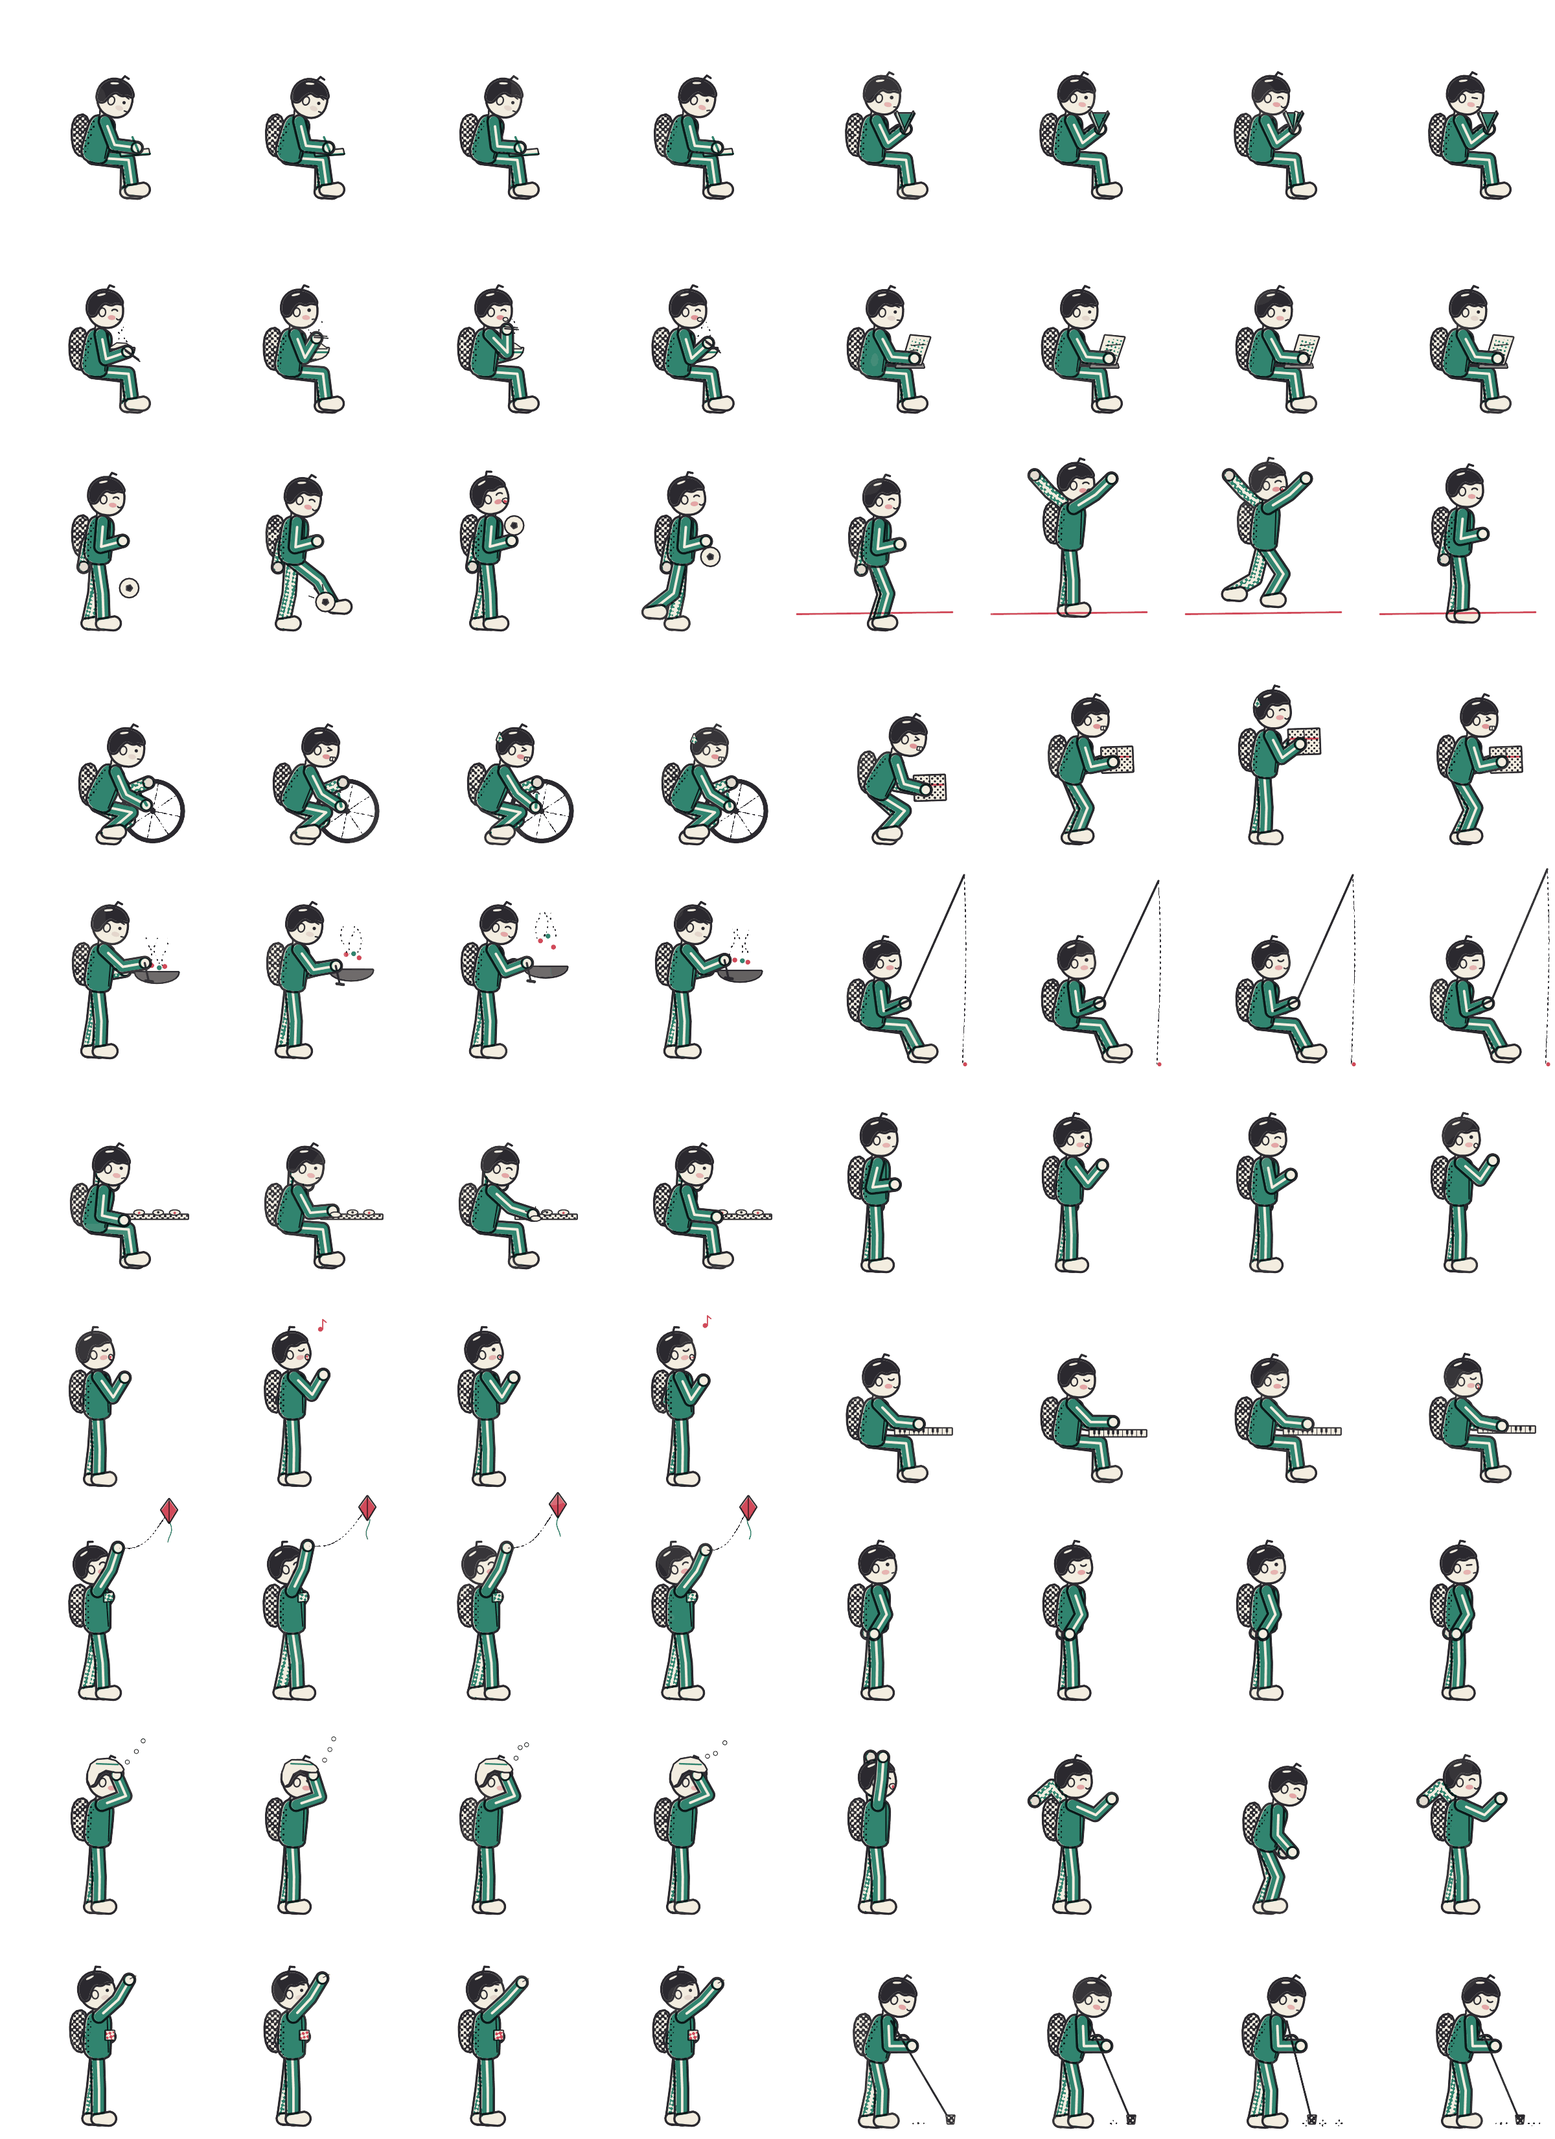
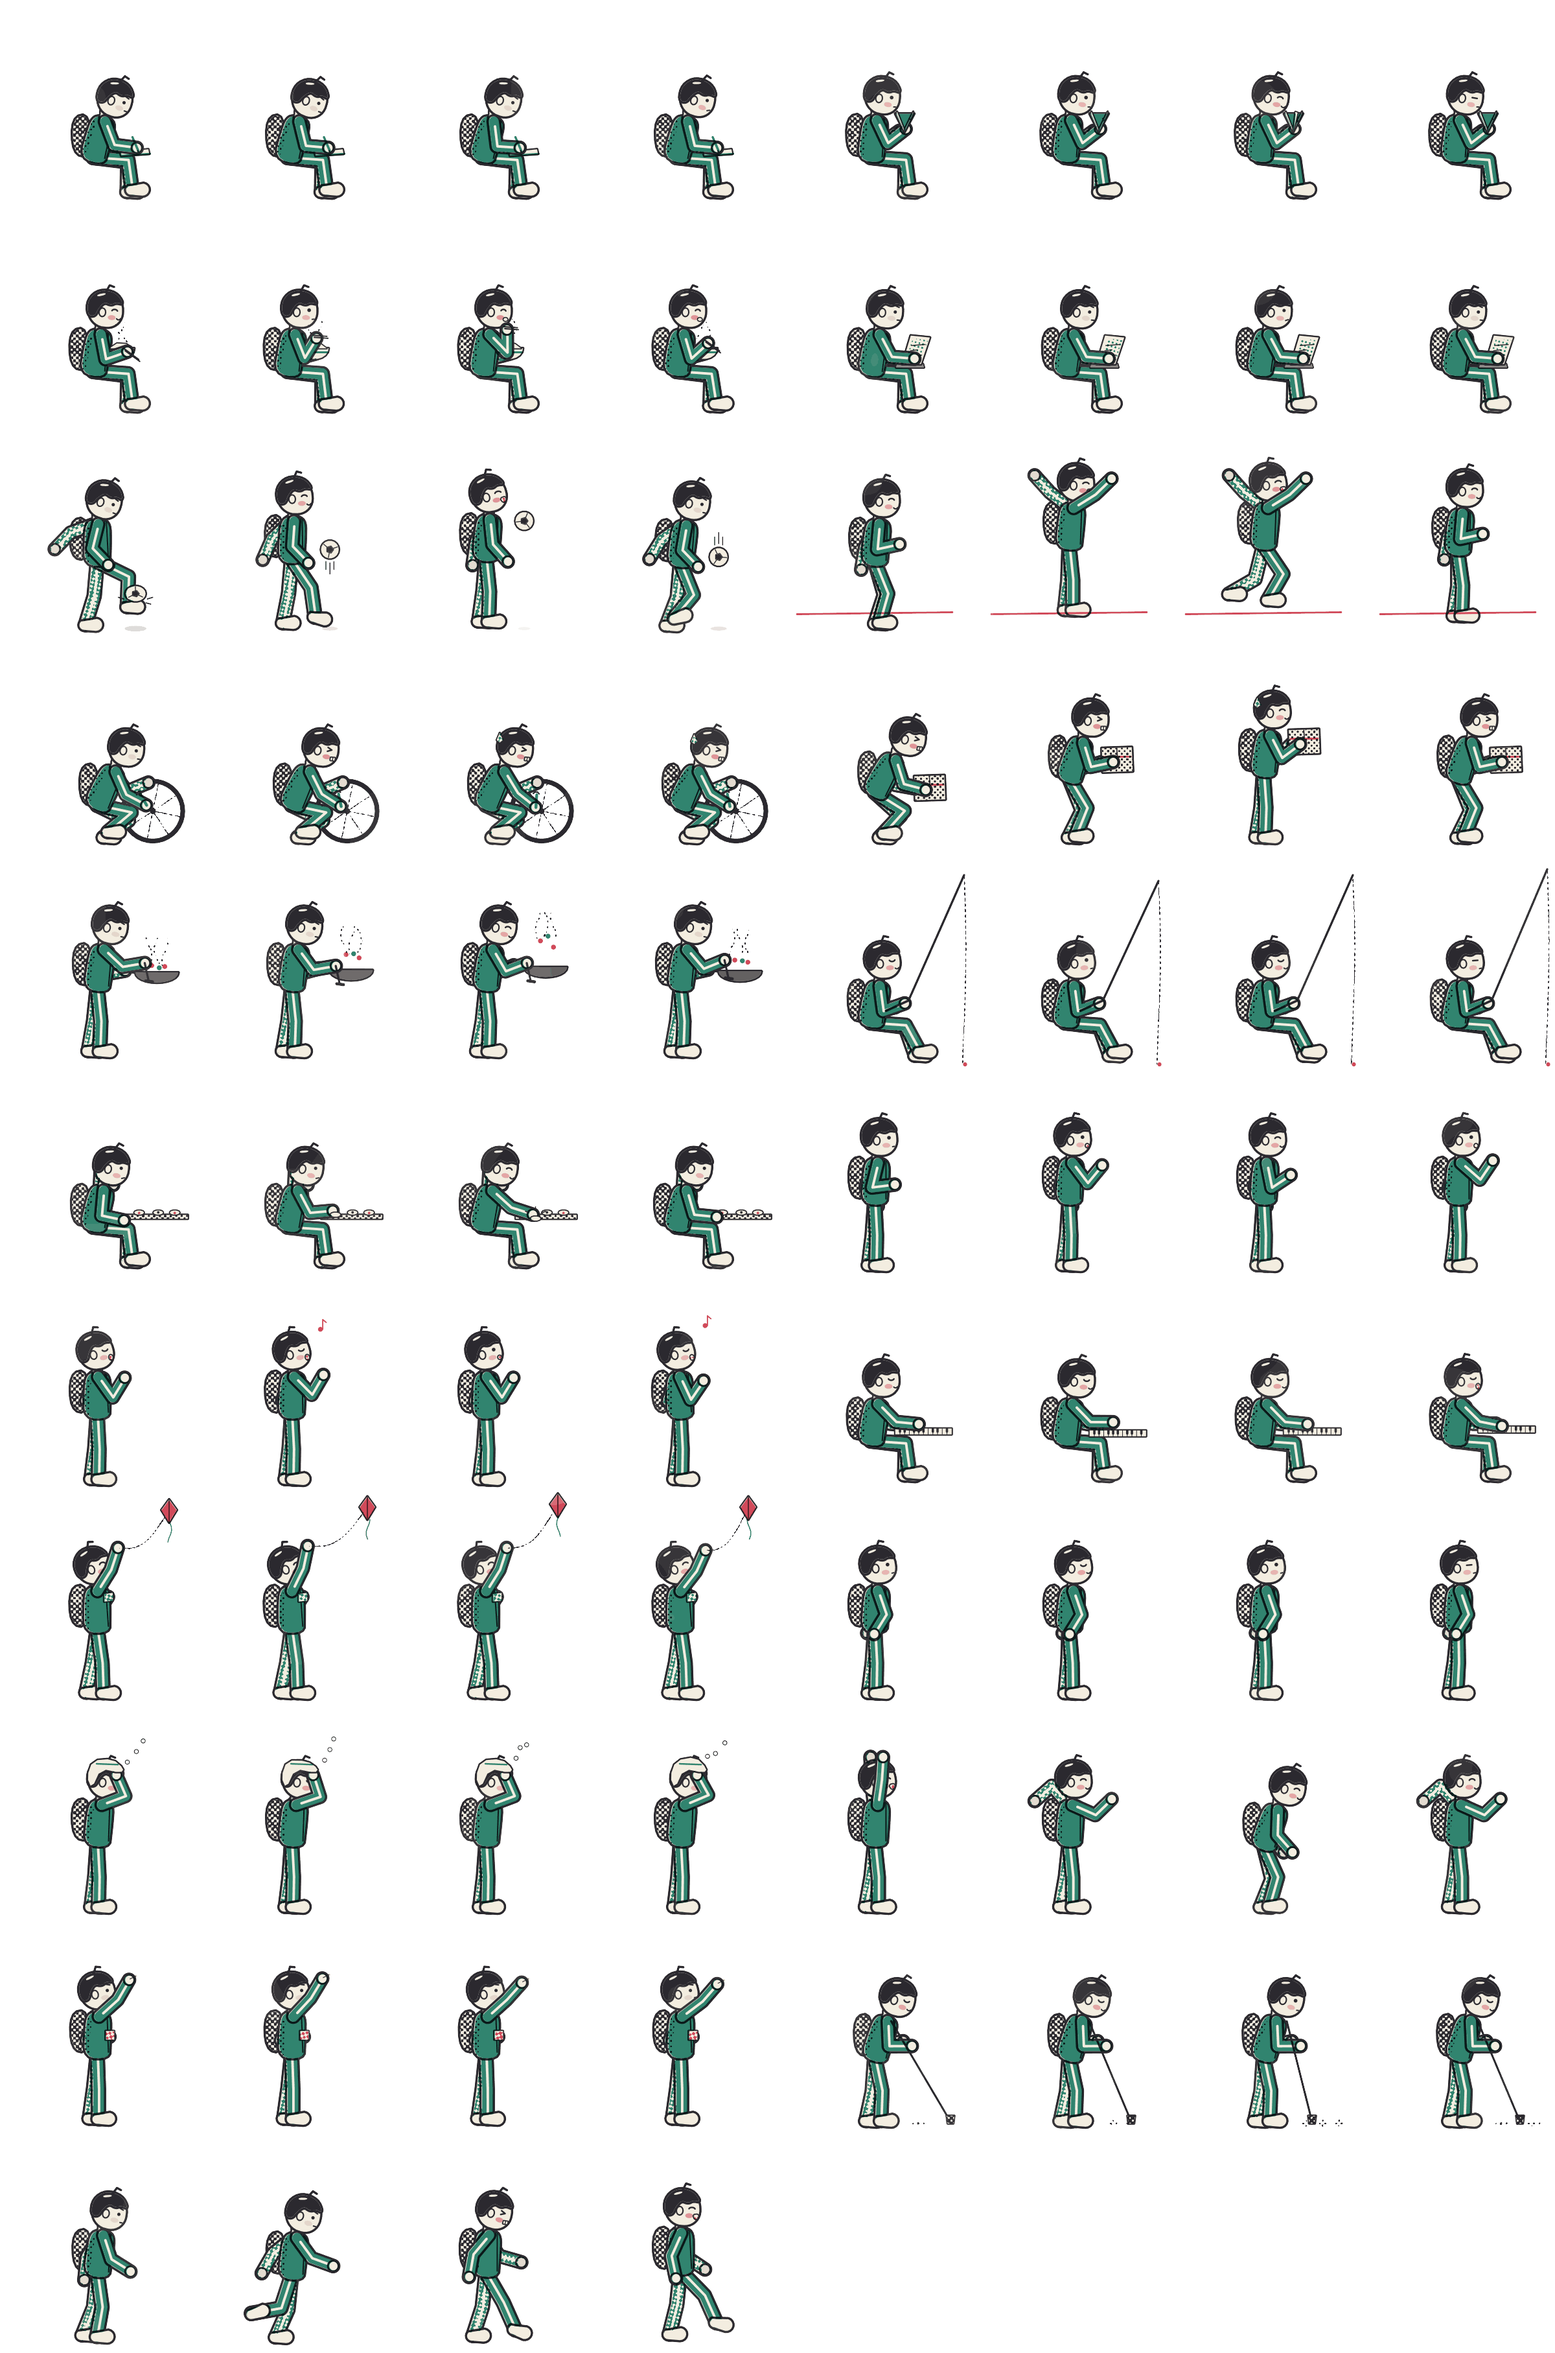
踢球重做：一个人脚背颠球有起落有影子，两个人面对面对着踢一个球
- 颠球四拍：脚背迎上去把球托扁一下 → 球往上走、眼睛跟着 → 球到胸口、人踮一下 → 球往下掉、先提膝。
  两只胳膊张开找平衡，地上有个跟着球高低变大变小的影子，往上往下各有速度线，球转着。老人不拄拐踢。
- 两个人一起踢球（同一个点、同一件事）：不再挤在一块各颠各的，面对面隔开几步（PASS_GAP），
  中间滚一个球：先弹两下再贴地滚、越滚越慢；轮到谁谁引腿、脚内侧推回去。新一套 pass 动作（动作表 10 → 11 行，2400×3630）。
  球由 pass_lead 那个人画在比人高一层的子节点上；两人用同一个游戏时间的钟（pass_clock），卡顿、录屏都对得上。
- world_view.pair_gap(loop)：同点同事两人让开多远，demo 也用它。
- tools/shots/life.gd：--only=名字 只拍那几段；加一段小学操场两人一起踢球；离得远时镜头少推一点的余量改小。
- unit_life：配成对换成 pass、出脚错开半圈、用的是 pass 那一行。

diff --git a/tools/art/actor_acts.py b/tools/art/actor_acts.py
@@ -222,26 +222,84 @@ def act_type(b, k):
                 expr="focus" if k != 0.5 else "think", hook=hook)
 
 
-def act_kick(b, k):
-    """踢球：颠球。近腿一抬把球颠起来，眼睛跟着球上下。"""
-    near = {0.0: (8, 6), 0.25: (52, 22), 0.5: (6, 4), 0.75: (-12, 40)}[k]
-    ball = {0.0: (34, -46), 0.25: (36, -30), 0.5: (30, -118), 0.75: (32, -82)}[k]
-    tilt = {0.0: 6, 0.25: 14, 0.5: -14, 0.75: -4}[k]
-    nr, fr = (0.42, 0.4), {"shoulder": -26, "elbow": 16}
+KICK_CONTACT = (64, 66, 0)  # 踢到球那一拍的近腿：大腿抬平一半、小腿竖着、脚面平着托住球
 
-    def hook(p, layer, J):
-        if layer != "front":
-            return
+
+def act_kick(b, k):
+    """踢球：脚背颠球，一圈四拍。
+
+    0  脚背迎上去，球压在脚面上扁一下（低头盯着脚）
+    ¼  球往上走，脚顺势落下，眼睛跟着往上
+    ½  球到胸口那么高停一下，人微微踮起来，抬头笑
+    ¾  球往下掉，膝盖先提起来、支撑腿往下沉，准备下一脚
+    两只胳膊张开找平衡（近手在前、远手在后），踢的时候往外一甩。
+    球直上直下（x 不动）；地上有个影子跟着球的高低变大变小，看得出多高。
+    """
+    from actors import leg_points  # 道具要知道脚面在哪：和 draw_person 用同一套算法
+
+    old = b["stage"] == "old"
+    near_leg = {0.0: KICK_CONTACT, 0.25: (34, 26, 8), 0.5: (6, 8, 0), 0.75: (22, 62, -10)}[k]
+    stand_k = {0.0: 12, 0.25: 6, 0.5: 3, 0.75: 16}[k]
+    kb = b.get("knee_bend", 0.0)
+    legs = [dict(side="near", thigh=near_leg[0], knee=near_leg[1], pitch=near_leg[2]),
+            dict(side="far", thigh=-5 + kb * 0.5, knee=stand_k + kb, pitch=0)]
+    nr, fr = {
+        0.0: ({"shoulder": -14, "elbow": 58}, {"shoulder": -70, "elbow": 26}),
+        0.25: ({"shoulder": -4, "elbow": 48}, {"shoulder": -46, "elbow": 22}),
+        0.5: ({"shoulder": 6, "elbow": 36}, {"shoulder": -24, "elbow": 16}),
+        0.75: ({"shoulder": -10, "elbow": 54}, {"shoulder": -56, "elbow": 24}),
+    }[k]
+    lean = {0.0: -3, 0.25: -1, 0.5: 1, 0.75: 4}[k]
+    tilt = {0.0: 20, 0.25: -2, 0.5: -12, 0.75: 12}[k]
+    bob = {0.0: -1.5, 0.25: 0.5, 0.5: 2.0, 0.75: -2.0}[k]
+    lift = {0.0: 0.0, 0.25: 0.6, 0.5: 1.0, 0.75: 0.55}[k]  # 球离脚面多高（0 脚面 ~ 1 胸口）
+
+    def ball_at(J):
         s = sz(J)
         r = 8.5 * s + 1.5
-        cx, cy = ball[0] * (0.7 + 0.3 * s), ball[1] * s
-        p.shape([(cx + r * math.cos(a * TAU / 16), cy + r * math.sin(a * TAU / 16)) for a in range(16)], ("paper",), line=1.6)
-        p.shape([(cx + r * 0.35 * math.cos(a * TAU / 5 + k), cy + r * 0.35 * math.sin(a * TAU / 5 + k)) for a in range(5)], ("ink", None), line=0.8)
-        if k == 0.25:
-            for i in range(3):
-                a = math.radians(200 + i * 30)
-                p.line([(cx + r * 1.4 * math.cos(a), cy + r * 1.4 * math.sin(a)), (cx + r * 2.0 * math.cos(a), cy + r * 2.0 * math.sin(a))], 1.2)
-    return dict(pose=pose(b, stand_legs(b, near, (-4, 8)), arms(nr, fr), lean=3, tilt=tilt), expr="joy" if k == 0.5 else "happy", hook=hook)
+        hip = J["hip"]
+        _kn, ankle, _h, toe = leg_points(hip, *KICK_CONTACT, J["b"])
+        foot_y = toe[1] - J["b"]["ankle"] * 1.9 - 1.0  # 踢那一拍的脚面（鞋面顶上）
+        cx = ankle[0] + (toe[0] - ankle[0]) * 0.55
+        top = J["shoulder"][1] + r * 0.6               # 最高到胸口
+        cy = (foot_y - r) + (top - (foot_y - r)) * lift
+        return cx, cy, r
+
+    def hook(p, layer, J):
+        cx, cy, r = ball_at(J)
+        if layer == "back":
+            # 地上的影子：球越高越小越淡
+            w = r * (1.25 - 0.55 * lift)
+            p.blot([(cx + w * math.cos(a * TAU / 16), 0.5 + w * 0.26 * math.sin(a * TAU / 16)) for a in range(16)], "ink", 0.34 - 0.14 * lift, flat=True)
+            return
+        if layer != "front":
+            return
+        sx, sy = (1.14, 0.86) if k == 0.0 else (1.0, 1.0)   # 碰上脚面那一下扁一点
+        cy2 = cy + (r * (1 - sy)) if k == 0.0 else cy
+        p.shape([(cx + r * sx * math.cos(a * TAU / 18), cy2 + r * sy * math.sin(a * TAU / 18)) for a in range(18)], ("paper",), line=1.6)
+        # 球面：中间一块五边形，转着（看得出在旋），外圈三道缝
+        spin = k * TAU * 0.8
+        p.shape([(cx + r * 0.38 * math.cos(spin + a * TAU / 5), cy2 + r * 0.38 * sy * math.sin(spin + a * TAU / 5)) for a in range(5)], ("ink", None), line=0.8)
+        for a in range(3):
+            ang = spin + a * TAU / 3 + 0.5
+            p.line([(cx + r * 0.42 * math.cos(ang), cy2 + r * 0.42 * sy * math.sin(ang)),
+                    (cx + r * 0.92 * math.cos(ang), cy2 + r * 0.92 * sy * math.sin(ang))], 0.9)
+        if k == 0.0:
+            # 脚背一磕：两边各崩出两道
+            for sgn in (-1, 1):
+                for i in range(2):
+                    a = math.radians(90 + sgn * (62 + i * 22))
+                    p.line([(cx + r * 1.35 * math.cos(a), cy2 + r * 0.9 + r * 0.3 * math.sin(a) - i * 3),
+                            (cx + r * 1.95 * math.cos(a), cy2 + r * 0.9 + r * 0.6 * math.sin(a) - i * 5)], 1.3)
+        elif k in (0.25, 0.75):
+            # 速度线：往上走拖在下面，往下掉拖在上面
+            d = 1 if k == 0.25 else -1
+            for i, dx in enumerate((-0.45, 0.0, 0.45)):
+                y0 = cy + d * r * (1.35 + 0.15 * (i % 2))
+                p.line([(cx + dx * r, y0), (cx + dx * r, y0 + d * r * (0.9 + 0.35 * (i == 1)))], 1.1)
+
+    return dict(pose=pose(b, legs, arms(nr, fr), lean=lean, tilt=tilt, bob=bob, no_cane=old),
+                expr={0.0: "focus", 0.25: "happy", 0.5: "joy", 0.75: "focus"}[k], hook=hook)
 
 
 def act_hop(b, k):
@@ -539,6 +597,31 @@ def act_brush(b, k):
                 expr="bliss" if k != 0.5 else None, hook=hook)
 
 
+def act_pass(b, k):
+    """两个人对着踢（"两个人，一个球"）：不画球，球是客户端在两人中间画的那一个（actor.gd 的 _draw_pass）。
+
+    0  站好等球：两膝微屈、胳膊张开
+    ¼  引腿：踢球的腿往后一摆，身子往前探
+    ½  脚内侧推出去：腿贴着地往前扫，近手往后甩着平衡
+    ¾  送出去：腿顺势往前抬一点，笑
+    客户端按球走到哪挑帧（球到脚边才踢），不是按固定节拍轮播。
+    """
+    kb = b.get("knee_bend", 0.0)
+    near = {0.0: (8, 18, 0), 0.25: (-18, 62, -10), 0.5: (30, 6, 12), 0.75: (44, 20, 8)}[k]
+    legs = [dict(side="near", thigh=near[0] + kb * 0.4, knee=near[1] + kb * 0.6, pitch=near[2]),
+            dict(side="far", thigh=-6 + kb * 0.5, knee={0.0: 16, 0.25: 18, 0.5: 12, 0.75: 8}[k] + kb, pitch=0)]
+    nr, fr = {
+        0.0: ({"shoulder": 18, "elbow": 40}, {"shoulder": -30, "elbow": 24}),
+        0.25: ({"shoulder": 36, "elbow": 34}, {"shoulder": -52, "elbow": 22}),
+        0.5: ({"shoulder": -40, "elbow": 30}, {"shoulder": 34, "elbow": 40}),
+        0.75: ({"shoulder": -24, "elbow": 36}, {"shoulder": 20, "elbow": 36}),
+    }[k]
+    return dict(pose=pose(b, legs, arms(nr, fr), lean={0.0: 4, 0.25: 3, 0.5: 0, 0.75: -3}[k],
+                          tilt={0.0: 12, 0.25: 16, 0.5: 14, 0.75: 2}[k], bob={0.0: -2.0, 0.25: -2.5, 0.5: -1.0, 0.75: 0.5}[k],
+                          no_cane=b["stage"] == "old"),
+                expr={0.0: "focus", 0.25: "focus", 0.5: "effort", 0.75: "joy"}[k])
+
+
 ACTS = [
     ("write", act_write), ("read", act_read),
     ("eat", act_eat), ("type", act_type),
@@ -550,6 +633,7 @@ ACTS = [
     ("kite", act_kite), ("gaze", act_gaze),
     ("wash", act_wash), ("exercise", act_exercise),
     ("chalk", act_chalk), ("brush", act_brush),
+    ("pass", act_pass),
 ]
 
 

diff --git a/tools/art/actors.py b/tools/art/actors.py
@@ -29,7 +29,7 @@ import actor_acts  # noqa: E402
 
 CELL_W, CELL_H = 200, 220
 COLS, ROWS = 8, 5
-ACT_ROWS = 10      # 行动表：每行两套 4 帧循环（actor_acts.ACTS）
+ACT_ROWS = 11      # 行动表：每行两套 4 帧循环（actor_acts.ACTS）
 ACT_SCALE = 1.5    # 行动表输出倍数：比走路表小一点，省显存（2400×3300）
 FOOT = (100, 206)
 SCALE = 2.0

diff --git a/tools/art/README.md b/tools/art/README.md
@@ -64,7 +64,7 @@ python3 tools/art/scenes.py --preview street --x 1200 --w 1600 --scale 0.5 --out
   行 0 是走路八帧（一步一个周期）；行 1 列 0~3 站着（列 3 眨眼）、列 4~7 在忙；行 2 列 0~1 坐、2~3 睡、4~7 招手；
   行 3 高兴 / 泄气，行 4 击掌 / 挠头（各 4 帧）。引擎按走过的距离推帧（`actor.gd` 的 `STRIDE`），所以快慢都不滑步。
   体态随年纪变：小孩走路一颠一颠（`hop`）、少年微含胸、中年发福（`belly`）、老人驼背屈膝（`lean`、`knee_bend`）。
-- **专属动作表**：`{qing|mei}_{stage}_act.png`，8 列 × 10 行、1.5 倍输出（2400×3300，省显存）。每行两套 4 帧循环，顺序是 `actor_acts.ACTS`，
+- **专属动作表**：`{qing|mei}_{stage}_act.png`，8 列 × 11 行、1.5 倍输出（2400×3630，省显存）。每行两套 4 帧循环，顺序是 `actor_acts.ACTS`，
   和 `actor.gd` 的 `ACT_LOOP` 一一对应（`client/tests/unit_life.gd` 对着查）。行动 id 对到哪一套在 `actor.gd` 的 `ACTION_LOOP` / `DUTY_LOOP`。
   脸上的表情是 `actors._face` 的 expr（笑、大笑、说话、唱、专心、琢磨、使劲、难过、嚼、不好意思…），头可以低头抬头（pose 的 `tilt`）。
 - **街坊**：`client/art/folks/<图>.png` 一位一行（列 0~3 营生、4~7 歇着），`walkers.png` 一种路人一行 8 帧走路，`index.json` 记谁在哪一行。
